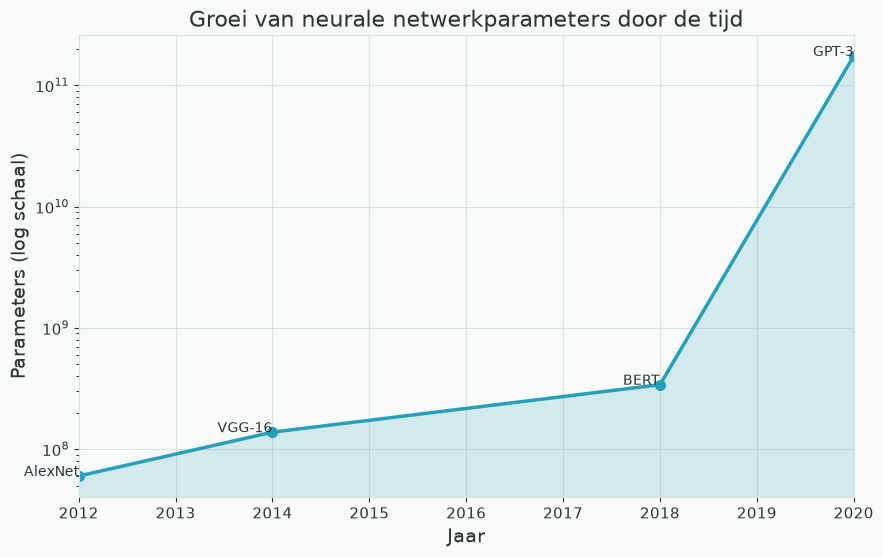
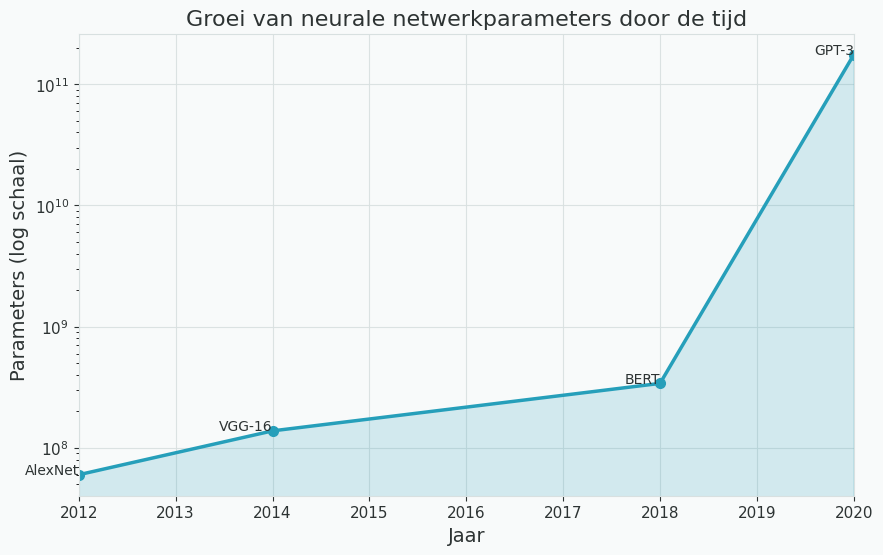
use own plot config

diff --git a/CCPlots/implementation/NeuralNetworkGrowthExample.py b/CCPlots/implementation/NeuralNetworkGrowthExample.py
@@ -1,28 +1,26 @@
-import matplotlib.pyplot as plt
+"""
+Log-scale line chart tracking the explosion of learnable parameters in
+landmark neural networks from AlexNet (2012, 60M) to GPT-3 (2020, 175B).
+
+Figures
+-------
+- ``neural_network_growth_line_log.png`` / ``_NL.png`` — log-scale growth line
+
+Configuration
+-------------
+``CCPlots/plot_configs/neural_network_growth.json``
+"""
 from matplotlib.colors import to_rgba
 
 from CCPlots.PlotExample import PlotExample
-from CCPlots.config import BITROOT_PALETTE, apply_bitroot_style, output_path
+from CCPlots.config import BITROOT_PALETTE
 
 
-TEXT_BY_LOCALE = {
-    "en": {
-        "title": "Growth in Neural Network Parameters Over Time",
-        "xlabel": "Year",
-        "ylabel": "Parameters (log scale)",
-    },
-    "nl": {
-        "title": "Groei van neurale netwerkparameters door de tijd",
-        "xlabel": "Jaar",
-        "ylabel": "Parameters (log schaal)",
-    },
-}
+class NeuralNetworkGrowth(PlotExample):
 
-
-class NeuralNetworkGrowthExample(PlotExample):
+    CONFIG_KEY = "neural_network_growth"
 
     primary = BITROOT_PALETTE['primary']
-    tertiary = BITROOT_PALETTE['tertiary']
     light_gray = BITROOT_PALETTE['grid']
 
     def main(self):
@@ -30,11 +28,8 @@ class NeuralNetworkGrowthExample(PlotExample):
         models = ["AlexNet", "VGG-16", "BERT", "GPT-3"]
         parameters = [60e6, 138e6, 340e6, 175e9]
 
-        for locale, labels in (("en", TEXT_BY_LOCALE["en"]), ("nl", TEXT_BY_LOCALE["nl"])):
-            fname = f"neural_network_growth_line_log{'_NL' if locale == 'nl' else ''}.png"
-
-            fig, ax = plt.subplots(figsize=(10, 6), facecolor=BITROOT_PALETTE['background'])
-            ax.set_facecolor(BITROOT_PALETTE['background'])
+        for _locale, labels, suffix in self.iter_locales():
+            fig, ax = self.create_figure()
 
             ax.plot(years, parameters, marker='o', color=self.primary, linewidth=2.5, markersize=7)
             ax.fill_between(years, parameters, color=to_rgba(self.primary, alpha=0.18))
@@ -48,8 +43,7 @@ class NeuralNetworkGrowthExample(PlotExample):
             ax.set_xlim(min(years), max(years))
             ax.set_ylabel(labels['ylabel'], color=BITROOT_PALETTE['text'])
 
-            apply_bitroot_style(ax)
+            self.apply_style(ax)
             ax.grid(True, color=self.light_gray)
 
-            fig.savefig(output_path(fname), bbox_inches='tight', pad_inches=0.1)
-            plt.close(fig)
+            self.save_figure(fig, "default", suffix=suffix)
